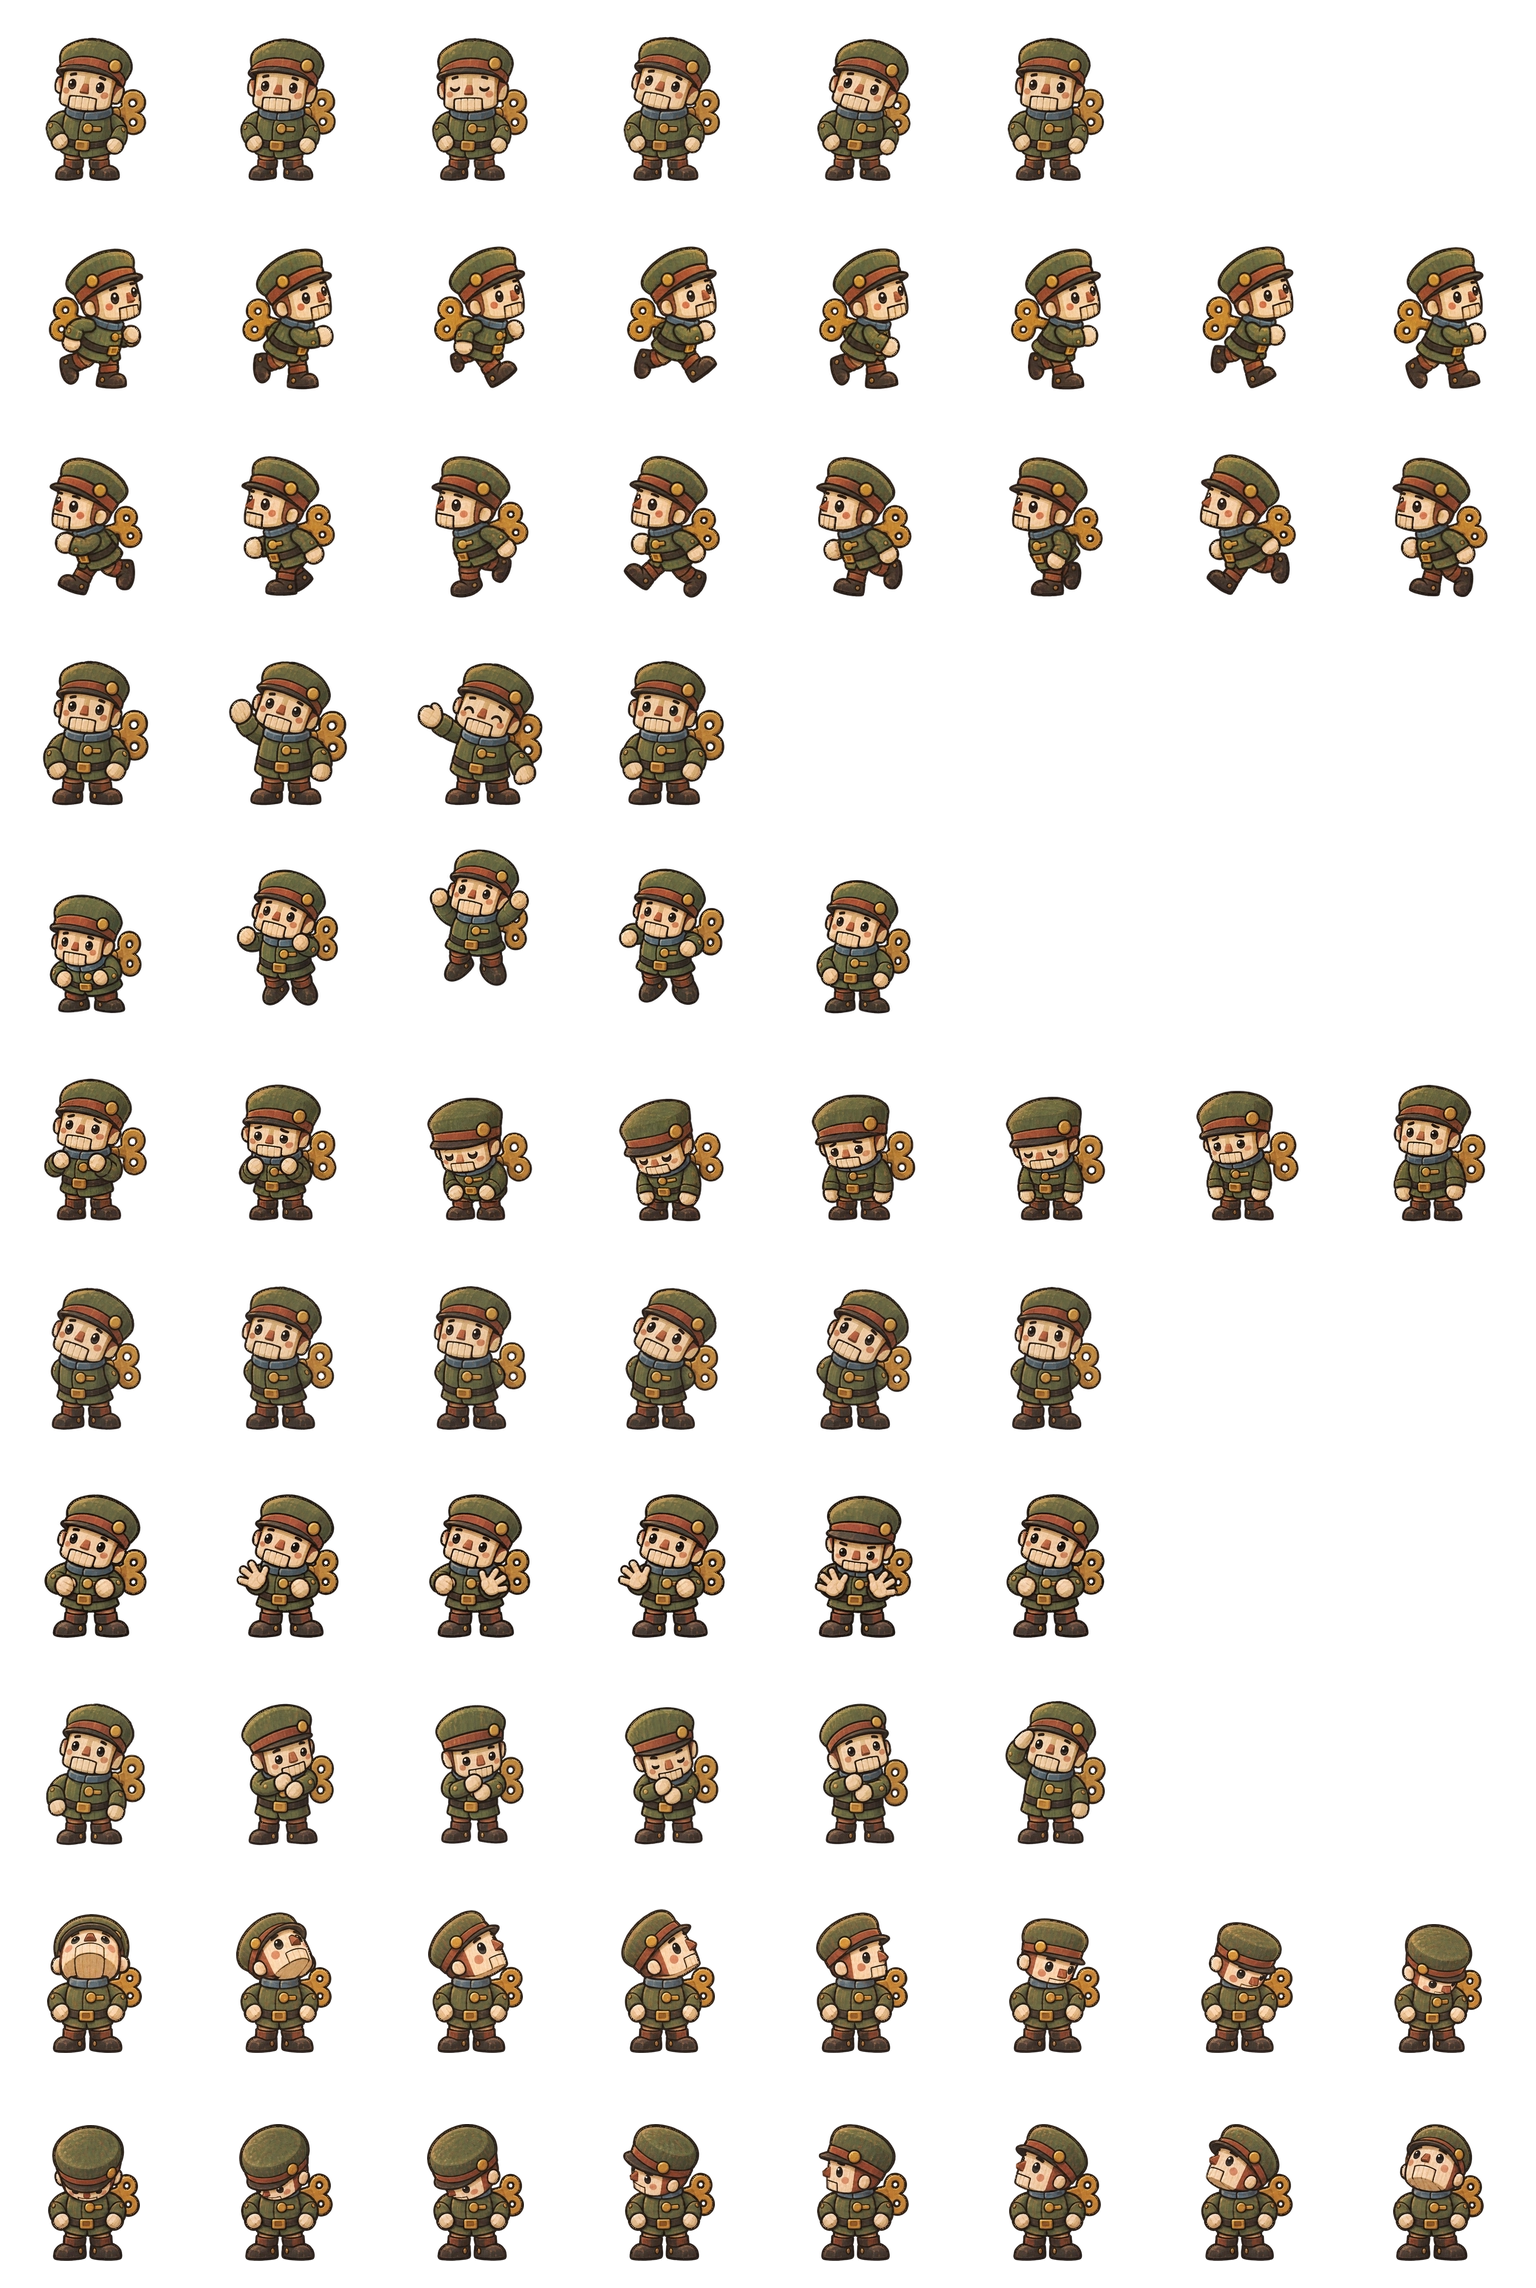
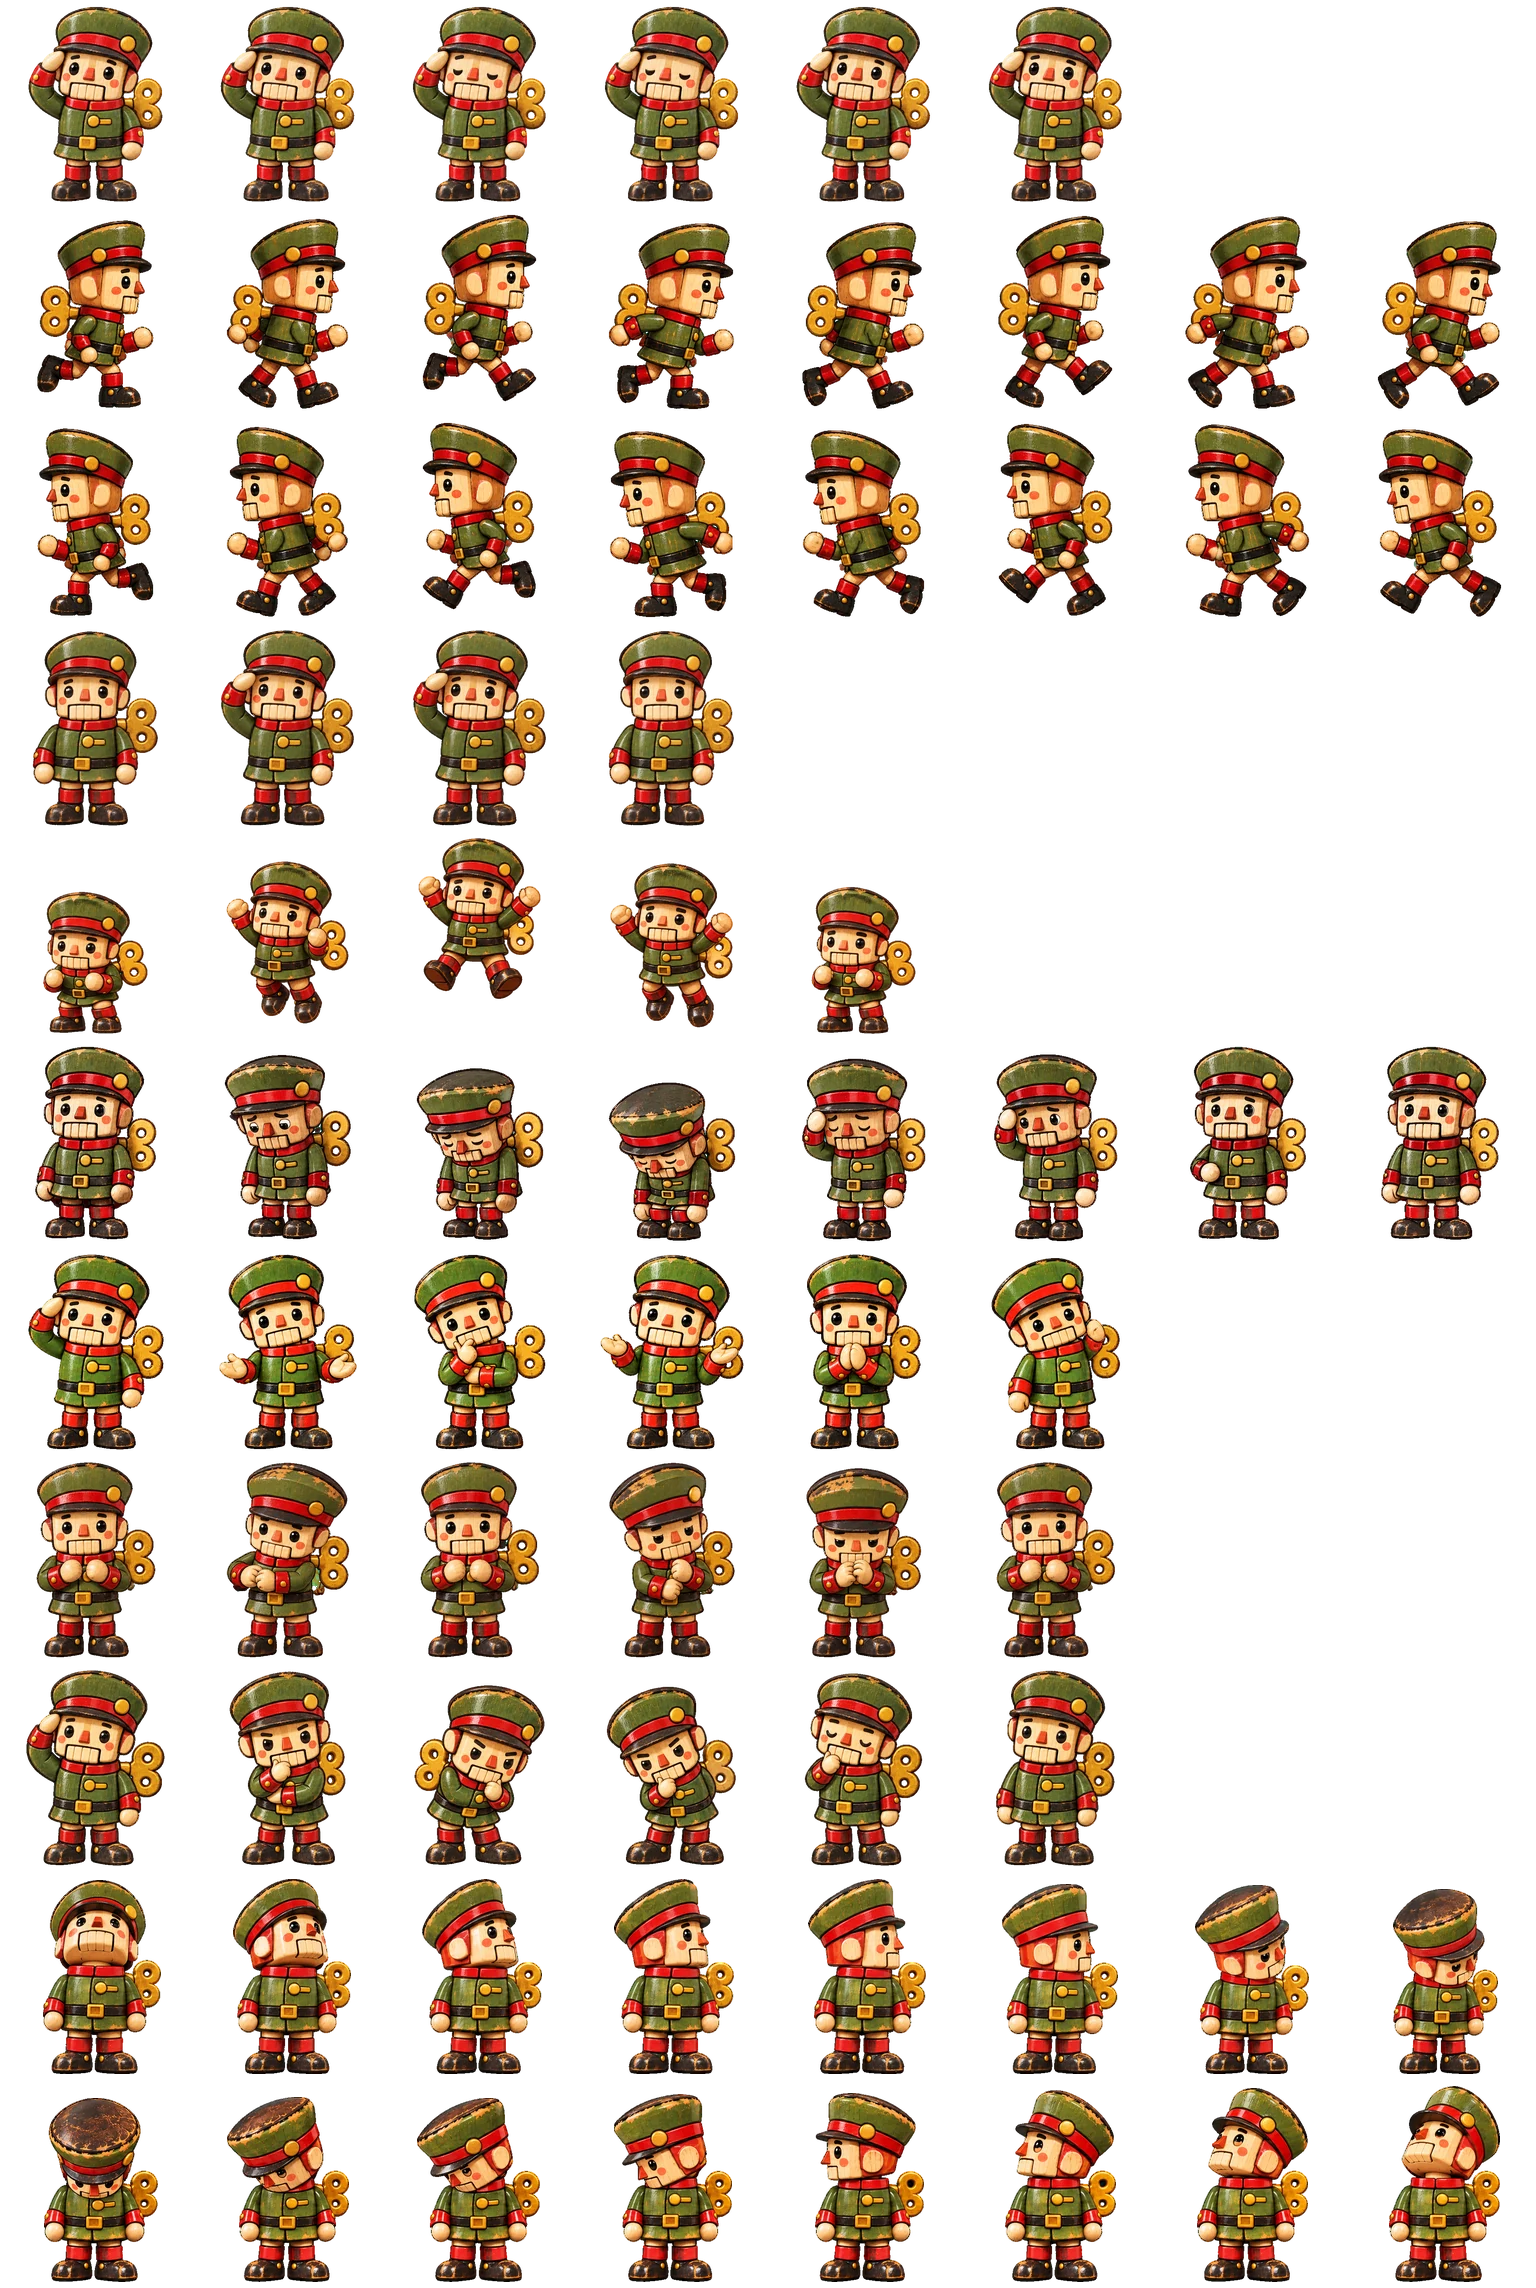
Pets: The Nutcracker redrawn [skip ci]
The Nutcracker followed as a turned and painted Erzgebirge wooden toy. Paul signed off the sheet ("sign off"). Lossy WebP q88, 797,986 bytes, alpha bit-identical (mean error 6.3/255); the 25 sheets total 21,597,998 bytes. pet-metrics.json and the making-of golden regenerated.

diff --git a/docs/marginarium-pets.md b/docs/marginarium-pets.md
@@ -213,6 +213,7 @@ Lossy WebP at quality 88 (alpha bit-identical; checked at 1x and 5x on light and
[4 lines of base64/hex data omitted]
 
-The Baba Yaga followed as a Russian lubok woodblock print. George followed as a Ballets Russes costume sketch in gouache. Madeleine followed as a Sunday-school flannelgraph in cut felt. The twenty-eight sheets total
-**21,657,588 bytes (20.65 MiB)** of the 24 MiB budget.
+The Baba Yaga followed as a Russian lubok woodblock print. George followed as a Ballets Russes costume sketch in gouache. Madeleine followed as a Sunday-school flannelgraph in cut felt. The Nutcracker followed as a turned and painted Erzgebirge wooden toy. The twenty-eight sheets total
+**21,597,998 bytes (20.60 MiB)** of the 24 MiB budget.
